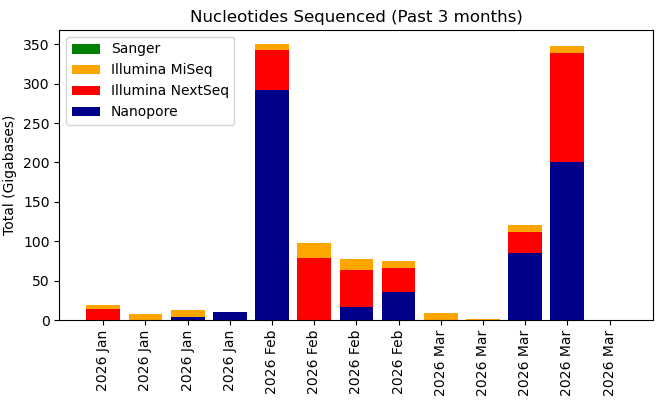
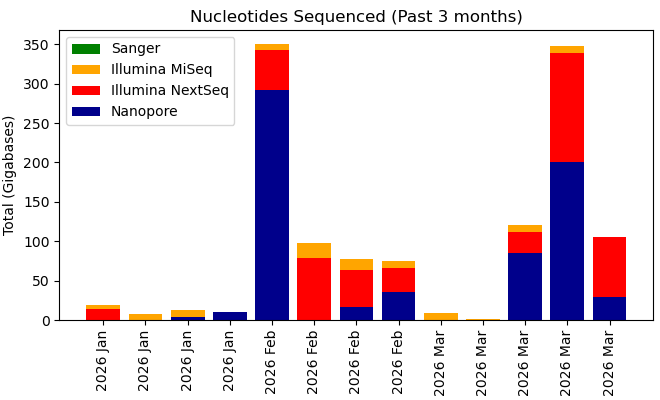
Your commit message here

Changed region(s): [[0.8788, 0.57, 0.9697, 0.81]]

diff --git a/krona/cgs.html b/krona/cgs.html
@@ -52,8 +52,8 @@ body {
   flex-direction: column;
 }
 </style>
-<H1>Genomics Facility Status: 07:00:10, 28/03/2026</H1>
-<marquee behavior="scroll" scrollamount="20" direction="left" bgcolor="lightgrey">AGAGTTTGATCCTGGCTCAGGACGAACGCTGGCGGCGTGCCTAACACATGCAAGTCGAGCGAGAGAAGTTCCGTCGGGACTGCAATTAGCGGCGGGCGGGGGTGAGTAACGCGGGAGAAACGTCCCACAGAGGGGGGGACACCTCTGGGAGGGGACTTCATACACCGCAAAAGTCTAGGACCGGACGACACACAGAGTGAAAGGGCAAACTCCGCTGAGATGGGGCCGCGCGTCAGTTGCTCGATTGGG</marquee>
+<H1>Genomics Facility Status: 07:00:18, 29/03/2026</H1>
+<marquee behavior="scroll" scrollamount="20" direction="left" bgcolor="lightgrey">AGAGTTTGATCCTGGCTCAGGATGAACGCTGGCGGCGTGCTTAACACATGCAAGTCGAGCGAAGCAGCTTATAAGATTCTTCGGATGATTCTCAACTGACTGAGCGGCGGACGGGTGAGTAACGCGTGGGTGACCTGCCCCATACCGGGGGATAACAGCTGGAAACGGCTGCTAATACCGCATAAGCGCACAGAGCTGCATGCCTCTGTGTGAAAAACTCCGGTGGTATGGGATGGGCCCGCGTCTGATT</marquee>
 <TABLE BORDER=0><TR><TD><TABLE class="styled-table"><H3>GigaBases Sequenced</H3>
-<TR><TD><b>Platform</b></TD><TD><b>Week</b></TD><TD><b>Month</b></TD><TD><b>Year</b></TD><TD><b>Total</b></TD></TR><TR><TD>Illumina MiSeq</TD><TD>0.0</TD><TD>35.44</TD><TD>351.08</TD><TD>517.1</TD></TR><TR><TD>Illumina NextSeq</TD><TD>0.0</TD><TD>197.42</TD><TD>4526.04</TD><TD>6387.61</TD></TR><TR><TD>Nanopore PromethION</TD><TD>80.18</TD><TD>320.49</TD><TD>7407.98</TD><TD>11419.2</TD></TR><TR><TD>Sanger</TD><TD>0.0</TD><TD>0.0</TD><TD>0.02</TD><TD>0.04</TD></TR></TABLE></TD><TD><IMG SRC="fig1.png"><IMG SRC="fig2.png"></TD></TR><TR><TD><H3>No. Samples (No. Experiments)</H3>
-<TABLE class="styled-table"><TR><TD><b>Platform</b></TD><TD><b>Week</b></TD><TD><b>Month</b></TD><TD><b>Year</b></TD><TD><b>Total</b></TD></TR><TR><TD>Illumina MiSeq</TD><TD>0 (0)</TD><TD>110 (6)</TD><TD>1517 (71)</TD><TD>2339 (93)</TD></TR><TR><TD>Illumina NextSeq</TD><TD>0 (1)</TD><TD>143 (5)</TD><TD>1419 (67)</TD><TD>2073 (83)</TD></TR><TR><TD>Nanopore PromethION</TD><TD>26 (5)</TD><TD>79 (25)</TD><TD>552 (178)</TD><TD>929 (312)</TD></TR><TR><TD>Sanger</TD><TD>670 (670)</TD><TD>2686 (2686)</TD><TD>20155 (20155)</TD><TD>41922 (41922)</TD></TR></TABLE></TD><TD><IMG SRC="fig4.png"></TD></TR></TABLE></HTML>
+<TR><TD><b>Platform</b></TD><TD><b>Week</b></TD><TD><b>Month</b></TD><TD><b>Year</b></TD><TD><b>Total</b></TD></TR><TR><TD>Illumina MiSeq</TD><TD>0.0</TD><TD>35.44</TD><TD>351.08</TD><TD>517.1</TD></TR><TR><TD>Illumina NextSeq</TD><TD>76.33</TD><TD>273.75</TD><TD>4520.4</TD><TD>6463.94</TD></TR><TR><TD>Nanopore PromethION</TD><TD>109.34</TD><TD>348.16</TD><TD>7437.13</TD><TD>11448.35</TD></TR><TR><TD>Sanger</TD><TD>0.0</TD><TD>0.0</TD><TD>0.02</TD><TD>0.04</TD></TR></TABLE></TD><TD><IMG SRC="fig1.png"><IMG SRC="fig2.png"></TD></TR><TR><TD><H3>No. Samples (No. Experiments)</H3>
+<TABLE class="styled-table"><TR><TD><b>Platform</b></TD><TD><b>Week</b></TD><TD><b>Month</b></TD><TD><b>Year</b></TD><TD><b>Total</b></TD></TR><TR><TD>Illumina MiSeq</TD><TD>0 (0)</TD><TD>110 (6)</TD><TD>1517 (71)</TD><TD>2339 (93)</TD></TR><TR><TD>Illumina NextSeq</TD><TD>12 (1)</TD><TD>155 (5)</TD><TD>1383 (66)</TD><TD>2085 (83)</TD></TR><TR><TD>Nanopore PromethION</TD><TD>8 (2)</TD><TD>74 (21)</TD><TD>551 (178)</TD><TD>928 (312)</TD></TR><TR><TD>Sanger</TD><TD>670 (670)</TD><TD>2590 (2590)</TD><TD>20251 (20251)</TD><TD>42018 (42018)</TD></TR></TABLE></TD><TD><IMG SRC="fig4.png"></TD></TR></TABLE></HTML>
